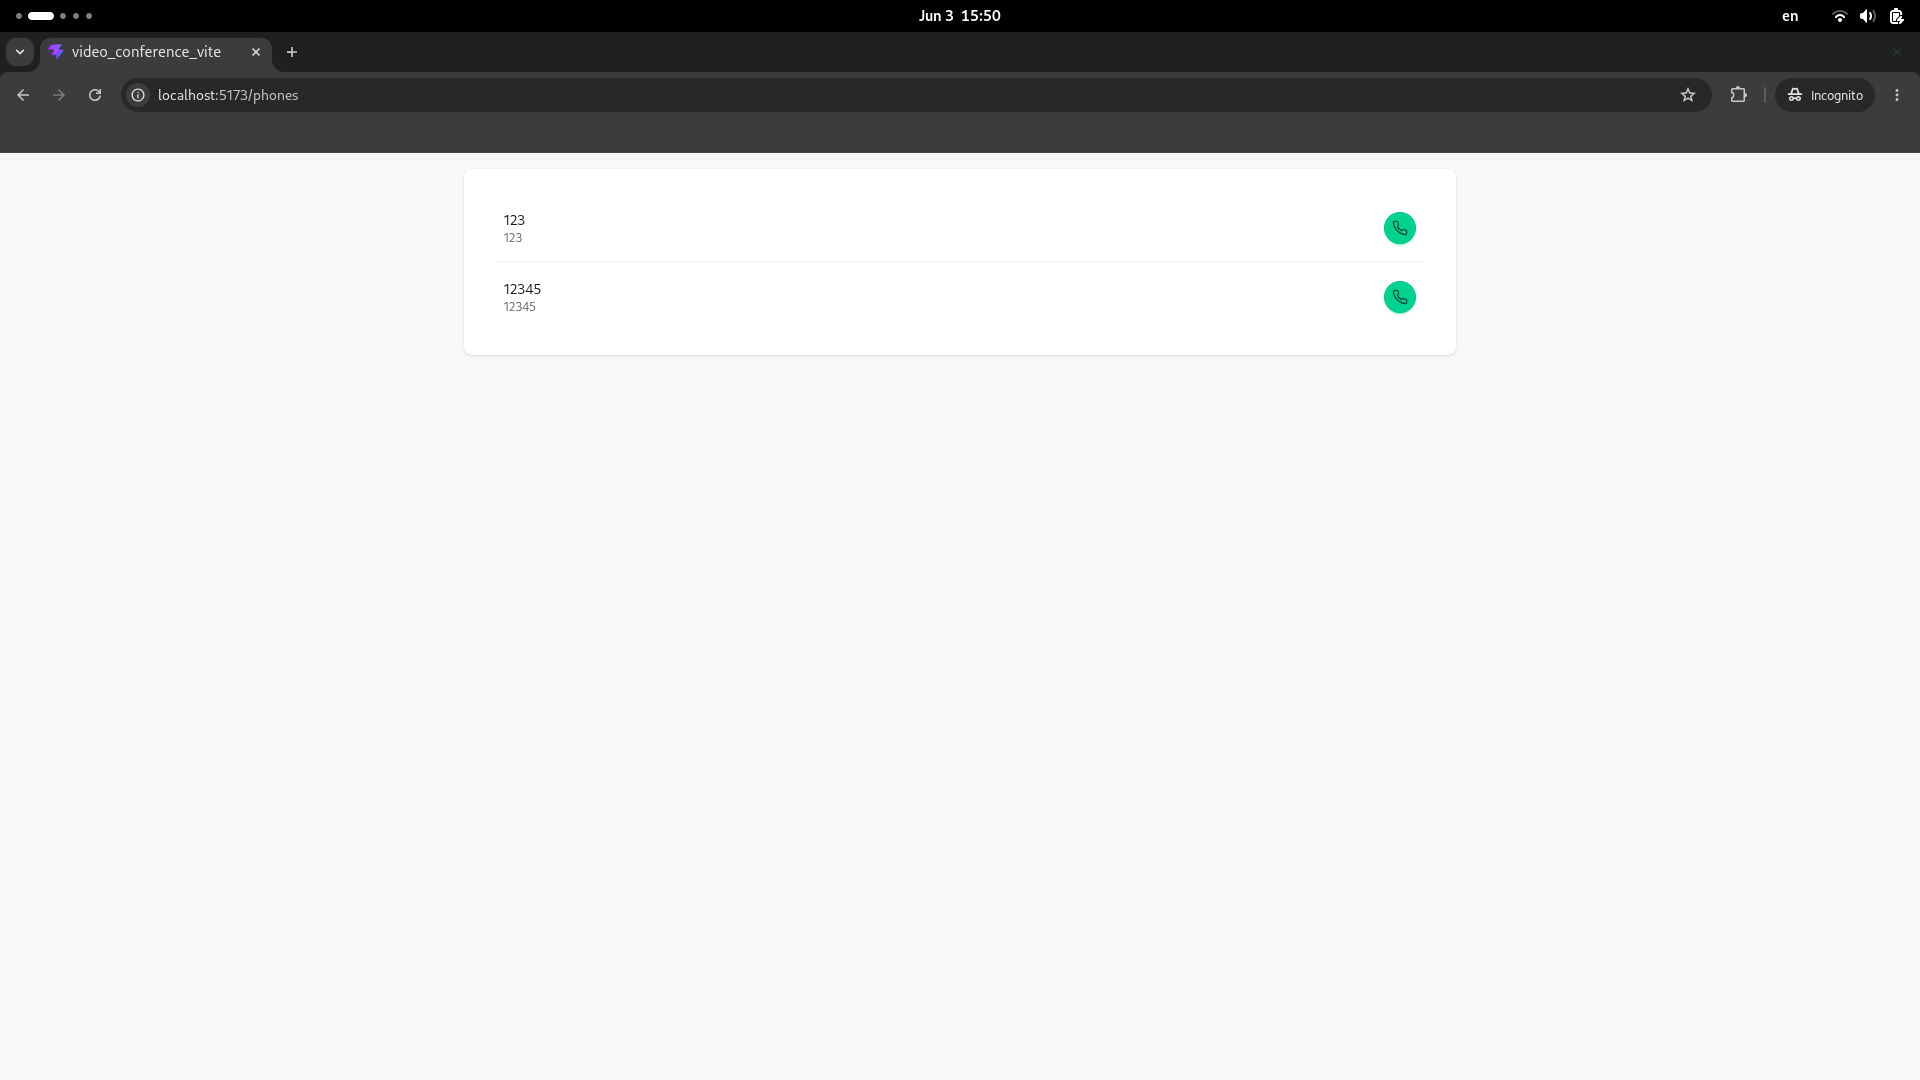
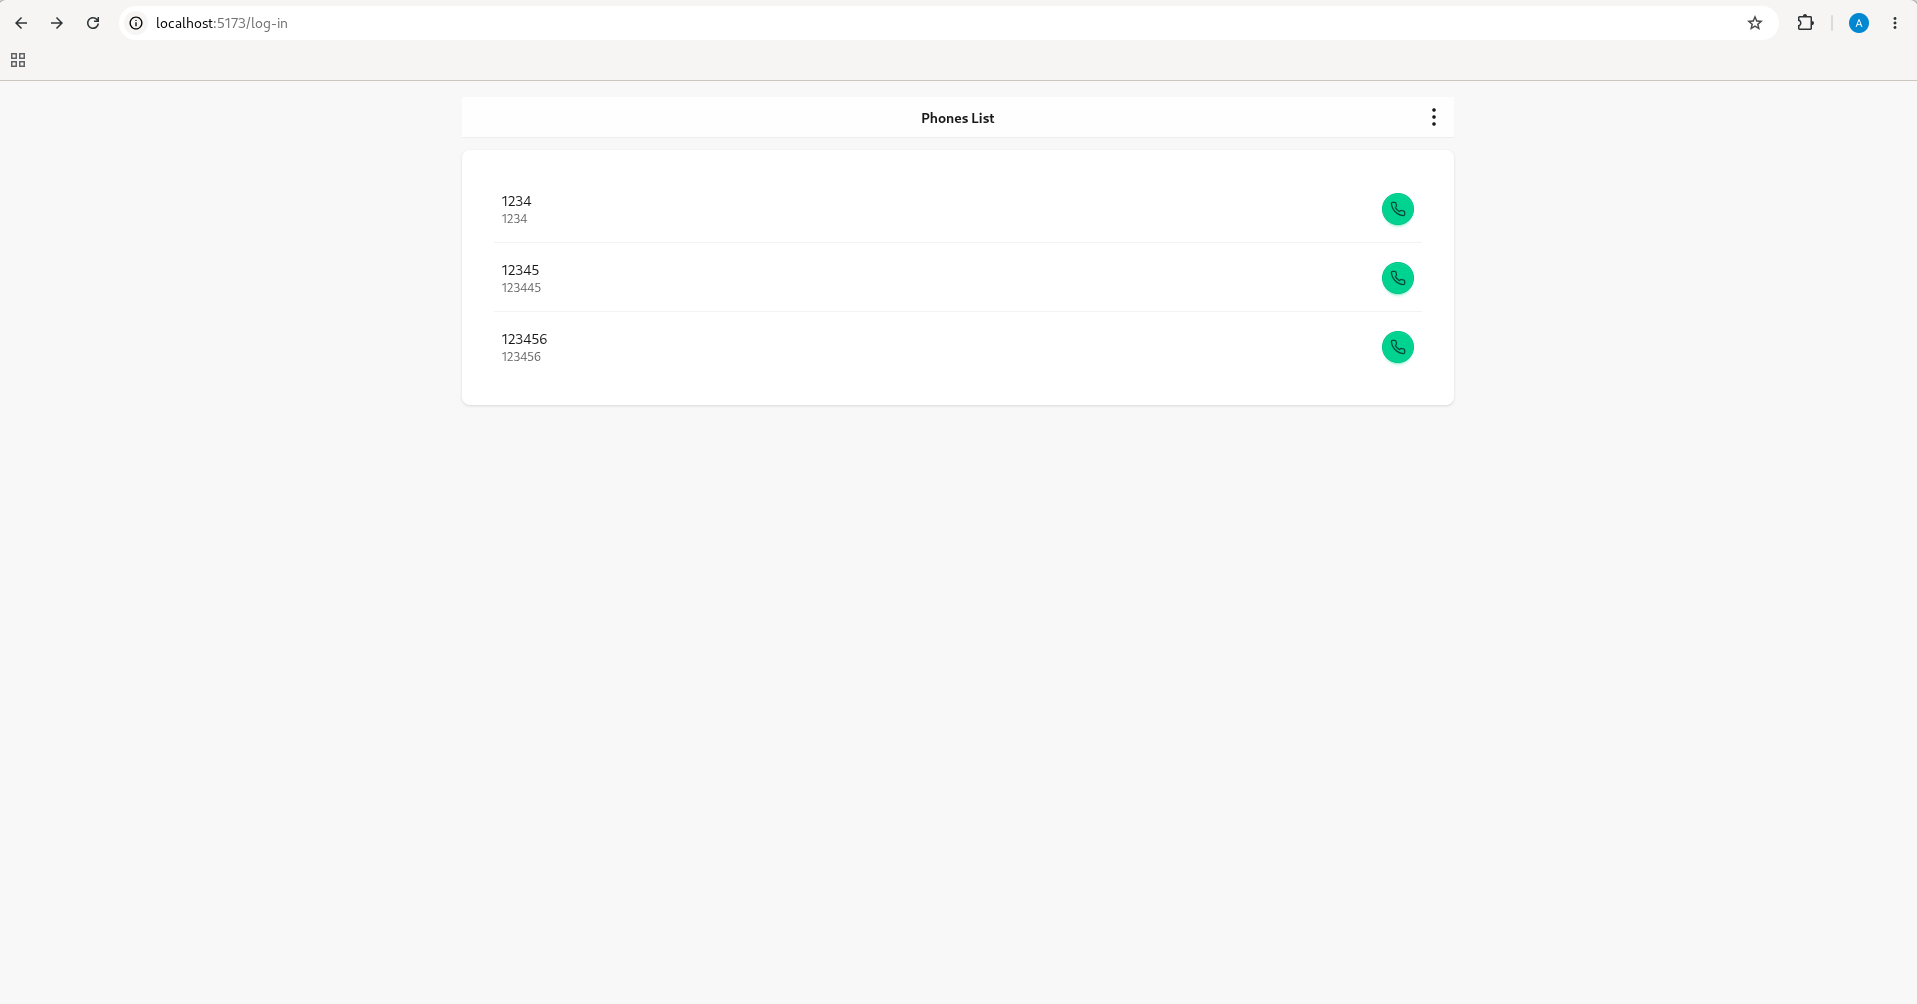
added screenshots to readme

diff --git a/README.md b/README.md
@@ -16,6 +16,17 @@ I want to have PWA at the end
 
 ![call page](github_imgs/call-page.png)
 
+![page menu](github_imgs/page-menu.png)
+
+![action menu](github_imgs/action-menu.png)
+
+
+## shared links (mocked)
+
+![double click on field to edit](github_imgs/double-click-on-field-to-edit.png)
+
+![swipe left to remove](github_imgs/swipe-left-to-remove.png)
+
 
 https://v2.vitejs.dev/guide/#command-line-interface
 